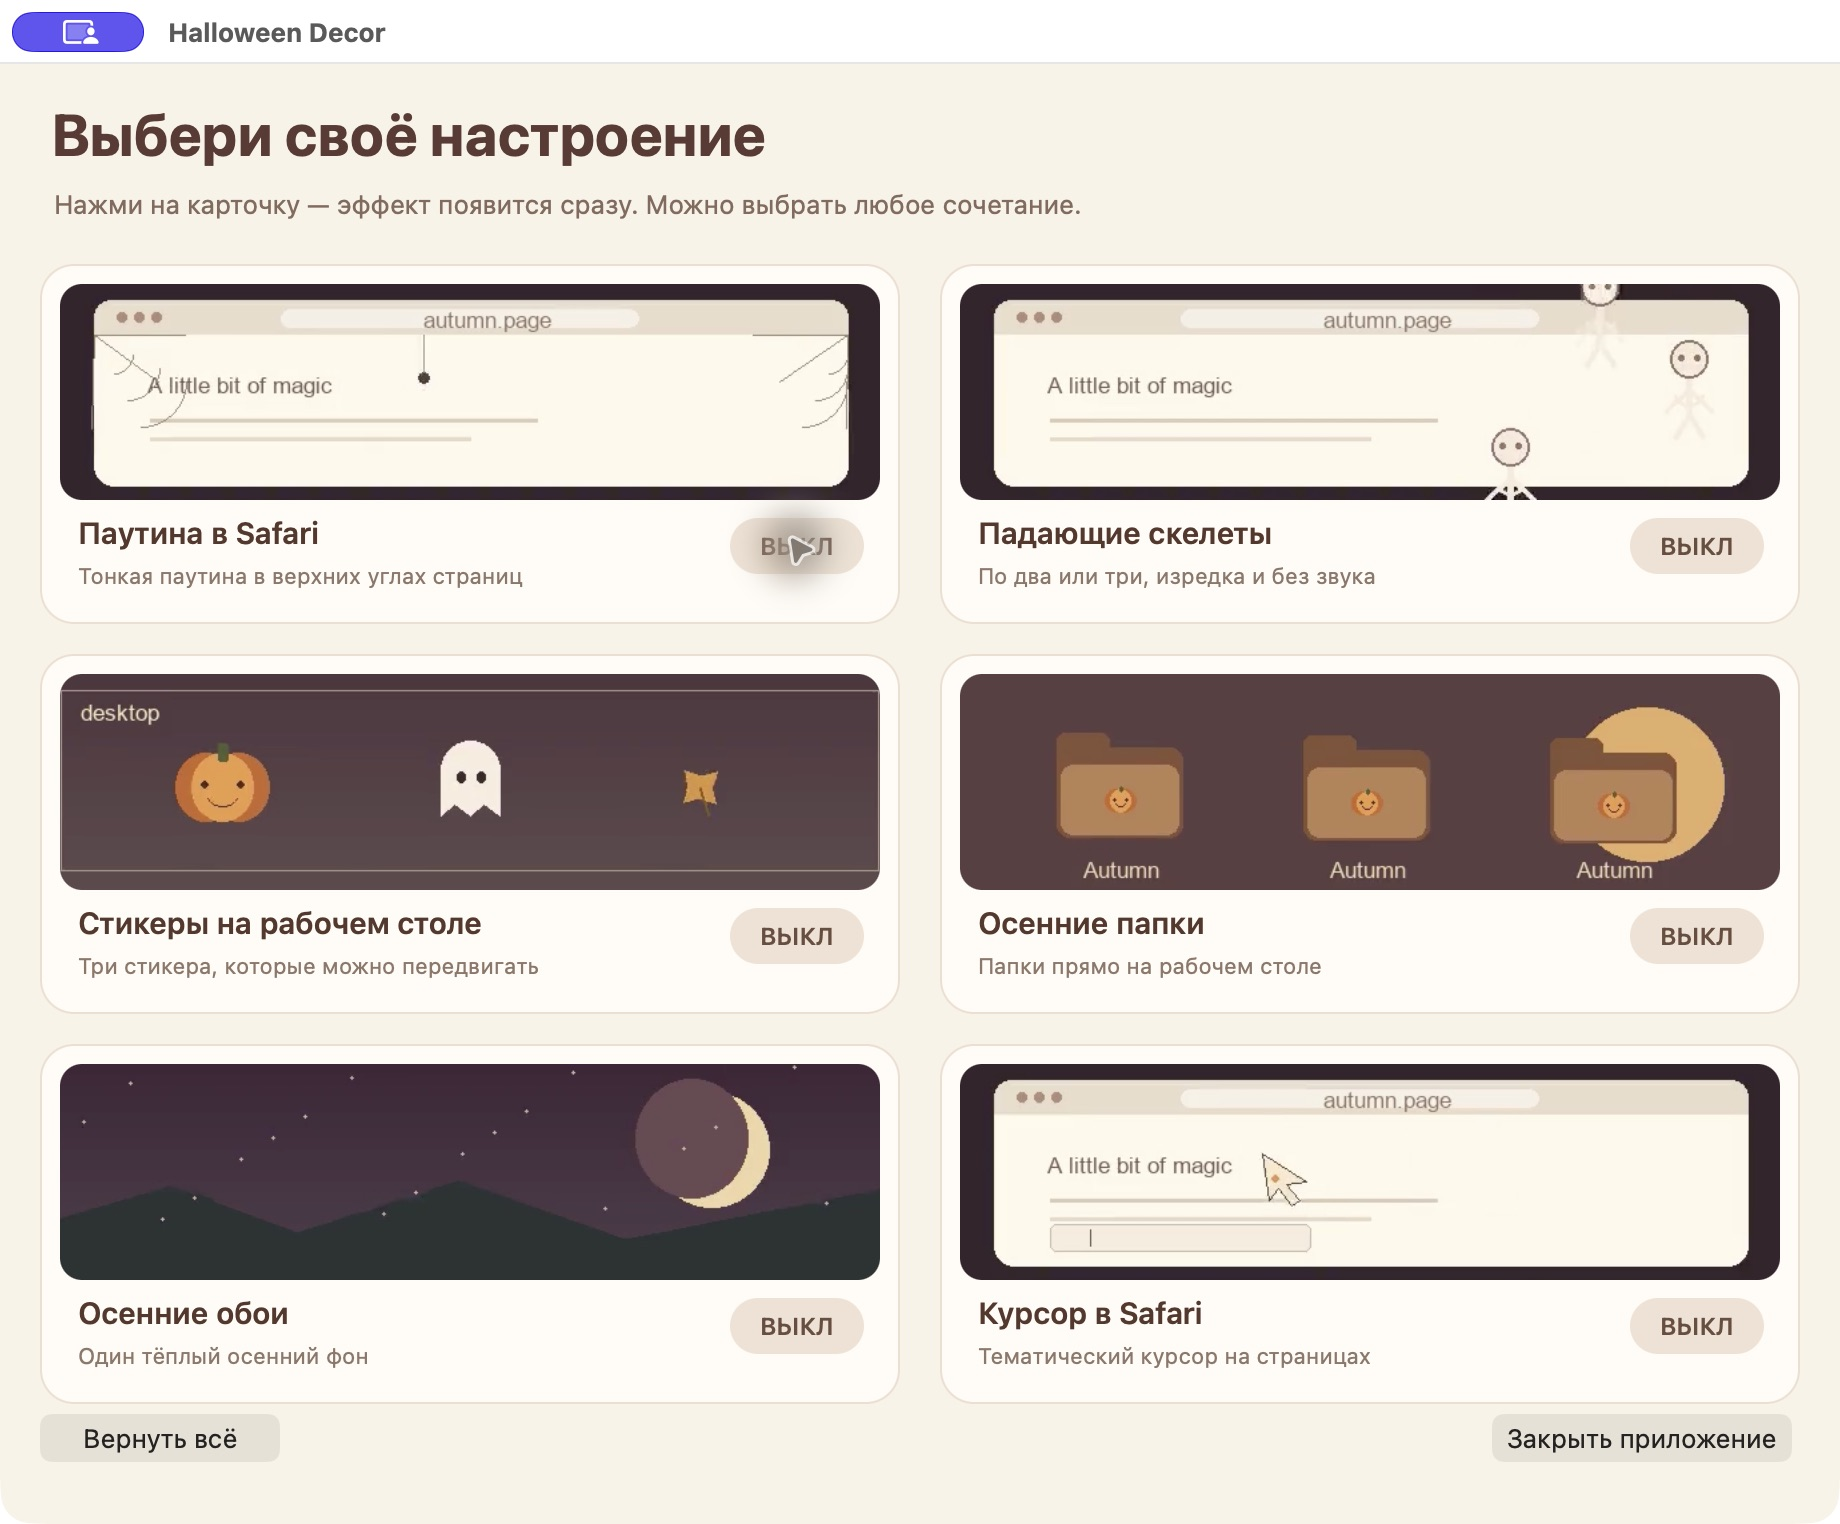
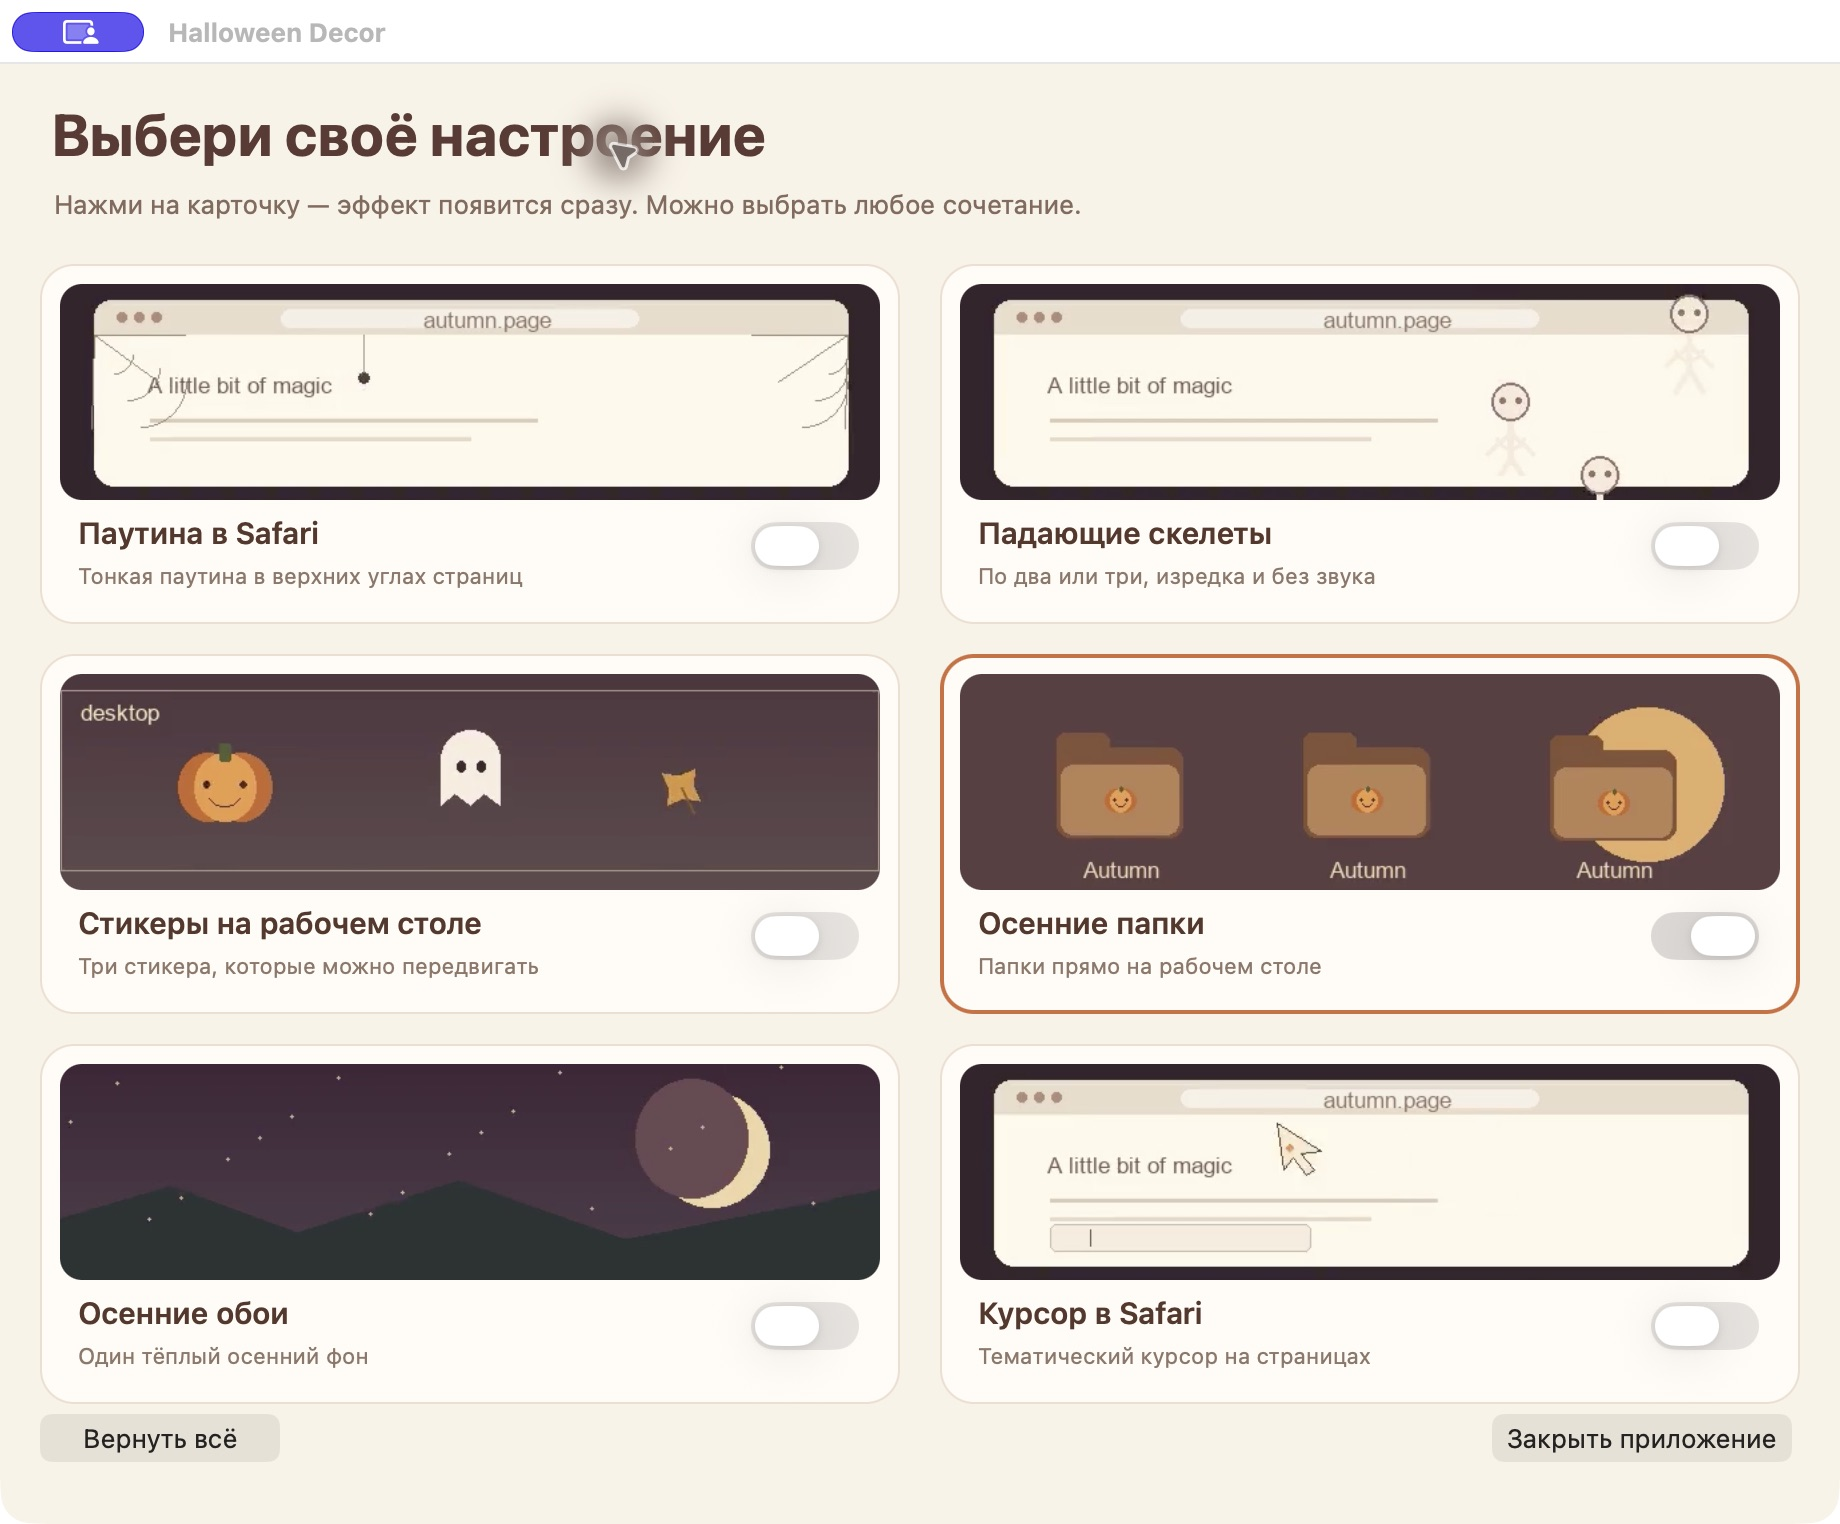
Use native switches for effect cards

diff --git a/macos/HalloweenDecor.swift b/macos/HalloweenDecor.swift
@@ -32,7 +32,7 @@ private final class PreviewCard: NSView {
     var onSelect: ((Effect) -> Void)?
     private let player: AVPlayer
     private var endObserver: NSObjectProtocol?
-    private let status = NSButton()
+    private let status = NSSwitch()
     init(effect: Effect, active: Bool, video: URL?, frame: NSRect) {
         self.effect = effect
         if let video { player = AVPlayer(url: video) } else { player = AVPlayer() }
@@ -59,14 +59,10 @@ private final class PreviewCard: NSView {
         detail.textColor = NSColor(calibratedRed: 0.48, green: 0.39, blue: 0.34, alpha: 1)
         detail.frame = NSRect(x: 17, y: 14, width: frame.width - 112, height: 17)
         addSubview(detail)
-        status.isBordered = false
         status.target = self
         status.action = #selector(didSelect)
         status.setAccessibilityLabel(effect.title)
-        status.font = .systemFont(ofSize: 12, weight: .semibold)
-        status.frame = NSRect(x: frame.width - 85, y: 25, width: 67, height: 28)
-        status.wantsLayer = true
-        status.layer?.cornerRadius = 14
+        status.frame = NSRect(x: frame.width - 75, y: 25, width: 55, height: 28)
         addSubview(status)
         setActive(active)
         player.isMuted = true
@@ -84,10 +80,7 @@ private final class PreviewCard: NSView {
     func pausePreview() { player.pause() }
     func resumePreview() { if player.currentItem != nil { player.play() } }
     func setActive(_ active: Bool) {
-        status.title = active ? "ВКЛ" : "ВЫКЛ"
-        status.contentTintColor = active ? .white : NSColor(calibratedRed: 0.42, green: 0.30, blue: 0.24, alpha: 1)
-        status.setAccessibilityValue(active ? "Включено" : "Выключено")
-        status.layer?.backgroundColor = (active ? NSColor(calibratedRed: 0.64, green: 0.29, blue: 0.16, alpha: 1) : NSColor(calibratedRed: 0.92, green: 0.86, blue: 0.79, alpha: 1)).cgColor
+        status.state = active ? .on : .off
         layer?.borderColor = (active ? NSColor(calibratedRed: 0.77, green: 0.35, blue: 0.18, alpha: 1) : NSColor(calibratedRed: 0.74, green: 0.59, blue: 0.45, alpha: 0.35)).cgColor
         layer?.borderWidth = active ? 2 : 1
     }
@@ -242,6 +235,7 @@ private final class App: NSObject, NSApplicationDelegate, NSWindowDelegate {
         if effect == .wallpaper {
             let succeeded = active ? applyWallpaper() : restoreWallpaper()
             if !succeeded {
+                cards[effect]?.setActive(enabled(effect))
                 let alert = NSAlert()
                 alert.messageText = active ? "Не удалось сменить обои" : "Не удалось вернуть прежние обои"
                 alert.informativeText = "Проверь, что исходный файл обоев доступен. Остальные эффекты продолжают работать."

diff --git a/docs/IMPLEMENTATION.md b/docs/IMPLEMENTATION.md
@@ -1,6 +1,6 @@
 # Implementation notes
 
-The six independent setting keys are `webs`, `skeletons`, `stickers`, `folders`, `wallpaper`, and `cursor`. The native Mac window is the source of truth. Its six cards have bundled, silent looping MP4 previews and apply effects as soon as they are selected. The pumpkin status item reopens the window. The app exposes a read-only JSON snapshot over loopback for the temporary Safari extension, which updates visible pages by polling. This bridge contains no page content and accepts no configuration writes.
+The six independent setting keys are `webs`, `skeletons`, `stickers`, `folders`, `wallpaper`, and `cursor`. The native Mac window is the source of truth. Its six cards have bundled, silent looping MP4 previews and native switches; clicking a card or switch applies its effect. The pumpkin status item reopens the window. The app exposes a read-only JSON snapshot over loopback for the temporary Safari extension, which updates visible pages by polling. This bridge contains no page content and accepts no configuration writes.
 
 The desktop implementation uses public AppKit APIs: NSWindow for the selection window and movable stickers, NSWorkspace for Desktop folder icons and wallpaper, and NSStatusItem for the pumpkin shortcut. AVFoundation plays the six bundled previews. Before changing wallpaper, the app stores both the source URL and a local copy of the image; the copy can restore its pixels if the source file later disappears. The Safari content script creates one click-through overlay on each ordinary web page. It respects `prefers-reduced-motion`.
 

diff --git a/docs/RELEASE_NOTES.md b/docs/RELEASE_NOTES.md
@@ -1,4 +1,12 @@
-# Halloween Decor 0.2.0
+# Halloween Decor 0.2.1
+
+The six cards now use native macOS switches instead of text buttons. Clicking anywhere on a card still toggles its effect. The window screenshot and installed app icon are included.
+
+Build from source or unzip `Halloween-Decor-0.2.1-macOS.zip`. Safari still uses a temporary extension; `Halloween-Decor-0.2.1-Safari-temporary.zip` contains the same browser effects as 0.2.0.
+
+## Earlier releases
+
+### 0.2.0
 
 The pumpkin now opens a native macOS window with six independent cards. Each card includes a short, silent looping video preview and applies its effect immediately. The window opens on launch and can be reopened from the menu bar pumpkin.
 
@@ -11,8 +19,6 @@ The pumpkin now opens a native macOS window with six independent cards. Each car
 Build the app from source or unzip `Halloween-Decor-0.2.0-macOS.zip` and move the app to Applications. Load the `safari-extension` folder as a temporary extension in Safari. The extension is removed by Safari when it quits or after 24 hours. See README for exact steps and limitations.
 
 This app is ad-hoc signed without a Developer ID, and it is unnotarized. macOS may require Open Anyway for the first launch. A packaged Safari extension and native messaging bridge require full Xcode and are not included in this release; this build uses a loopback bridge for local development.
-
-## Earlier release
 
 ### 0.1.0
 

diff --git a/README.md b/README.md
@@ -10,7 +10,7 @@ The image above shows the page layer on a local demo page. It is not a screensho
 
 For a live Safari check, run `python3 -m http.server 47902 --bind 127.0.0.1` from the repository root and open `http://127.0.0.1:47902/demo/live.html` in Safari. Unlike `demo/index.html`, this page has no decoration script of its own, so any effects visible there come from the installed extension.
 
-A small, original Halloween decoration kit for macOS and Safari. Opening the Mac app shows one native window with six selectable cards and silent looping video previews: Safari webs, falling skeletons, desktop stickers, autumn icons for folders on the Desktop, a wallpaper, and a Safari page cursor. Click a card or its button to apply or remove that effect immediately. Any combination is possible.
+A small, original Halloween decoration kit for macOS and Safari. Opening the Mac app shows one native window with six selectable cards and silent looping video previews: Safari webs, falling skeletons, desktop stickers, autumn icons for folders on the Desktop, a wallpaper, and a Safari page cursor. Click a card or its switch to apply or remove that effect immediately. Any combination is possible.
 
 ## Requirements
 
